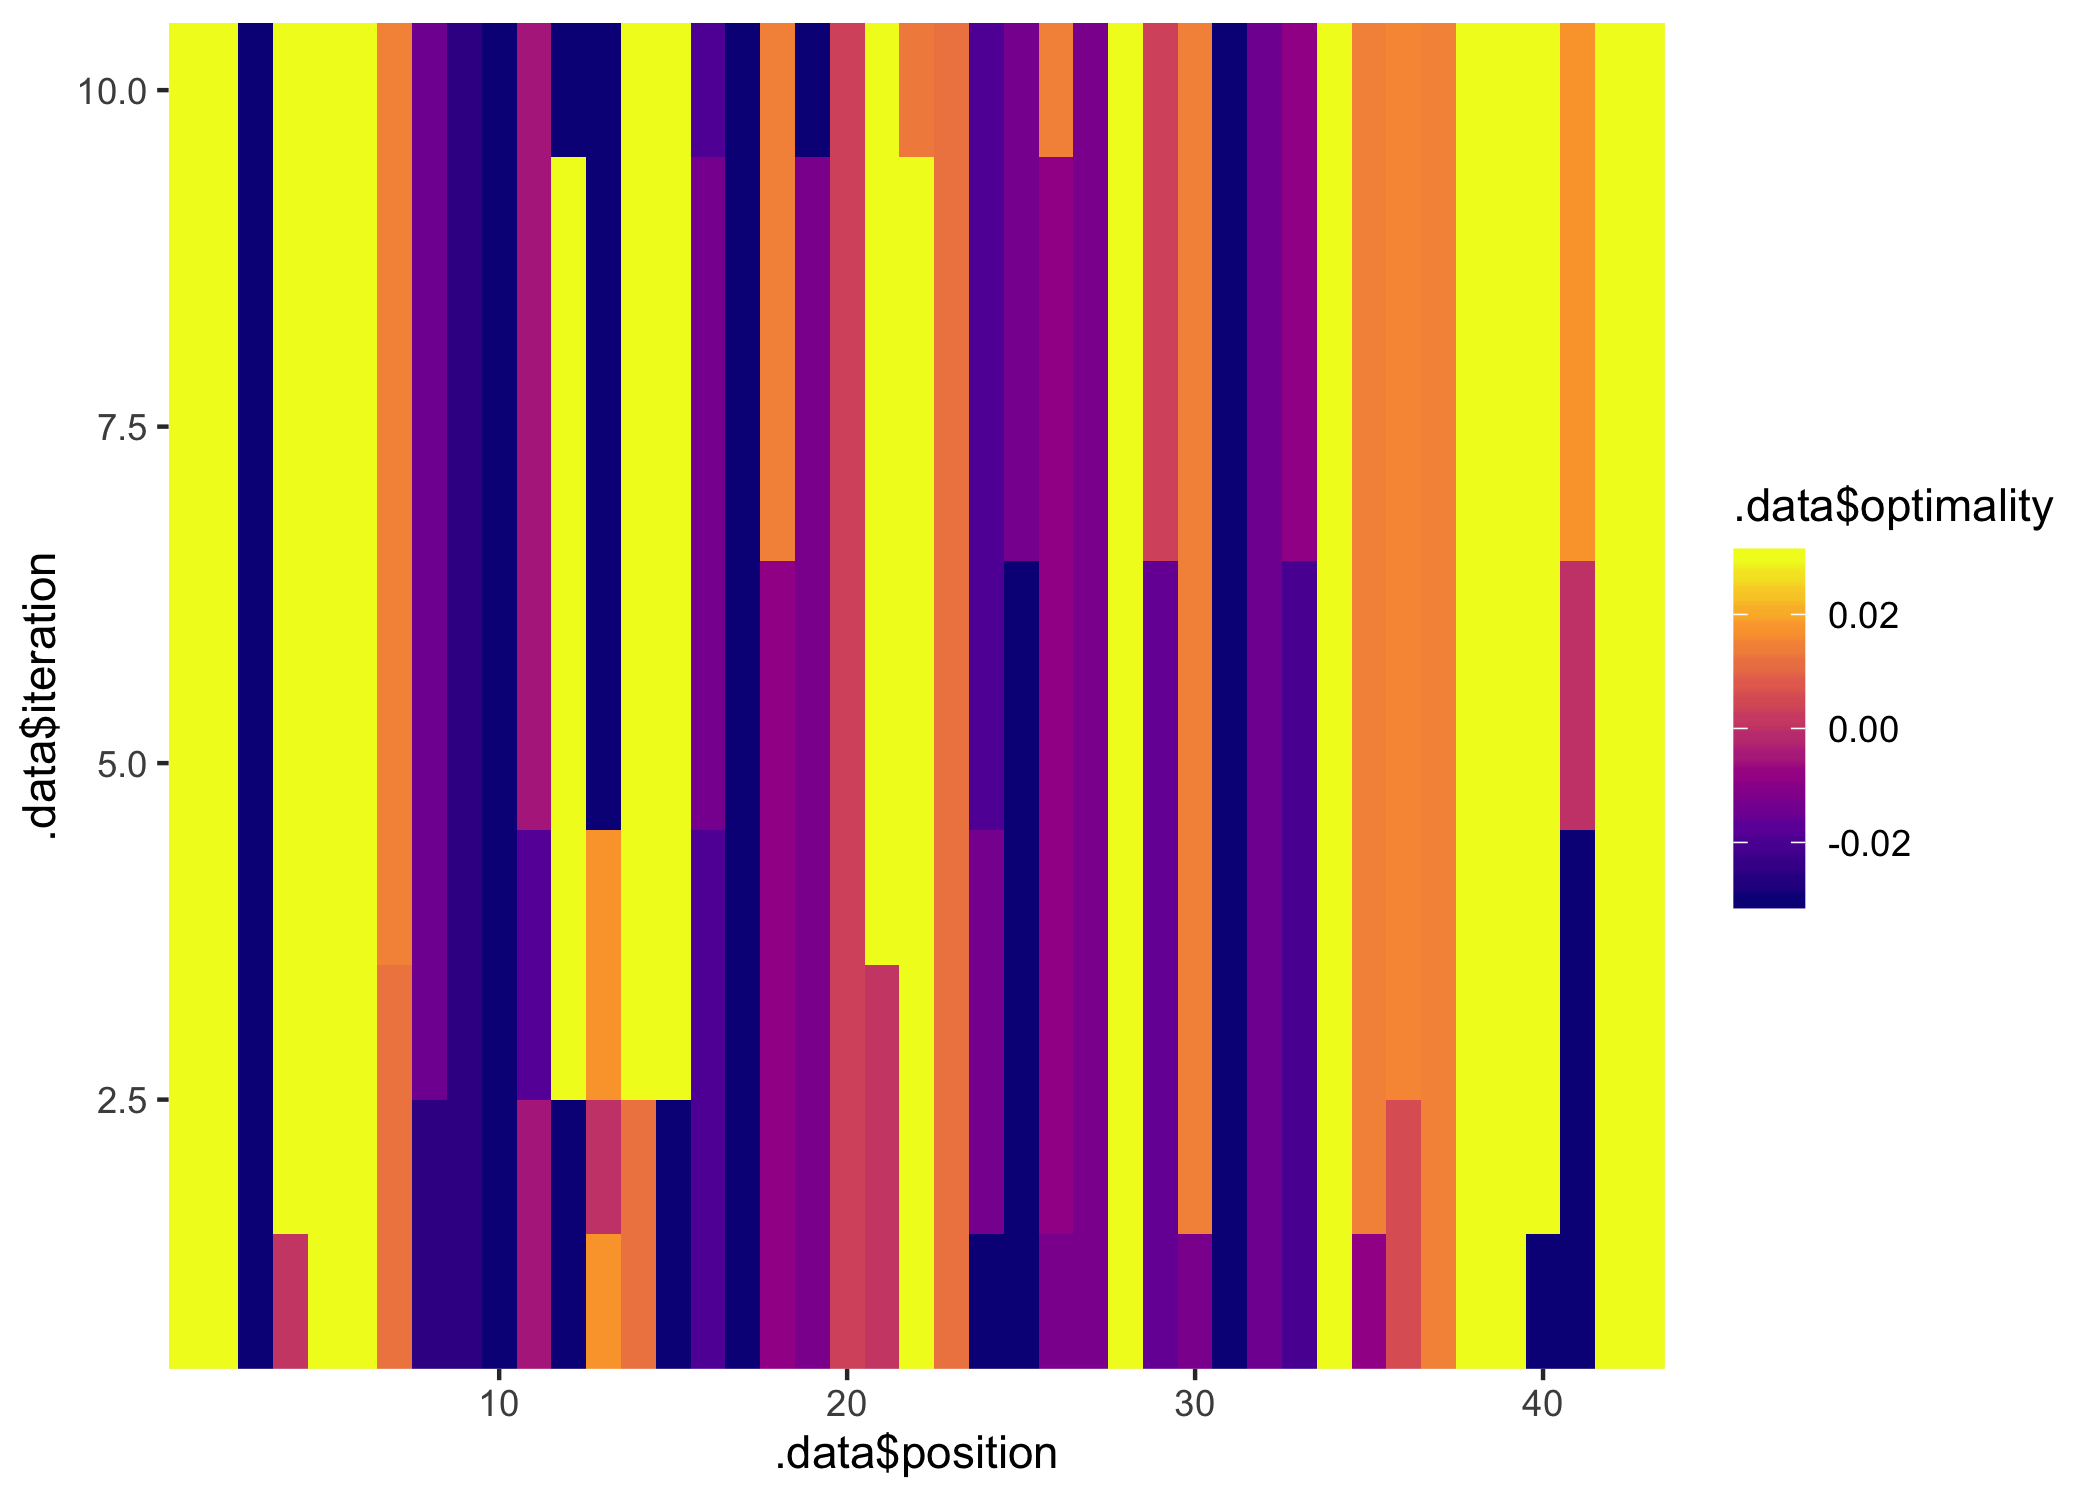
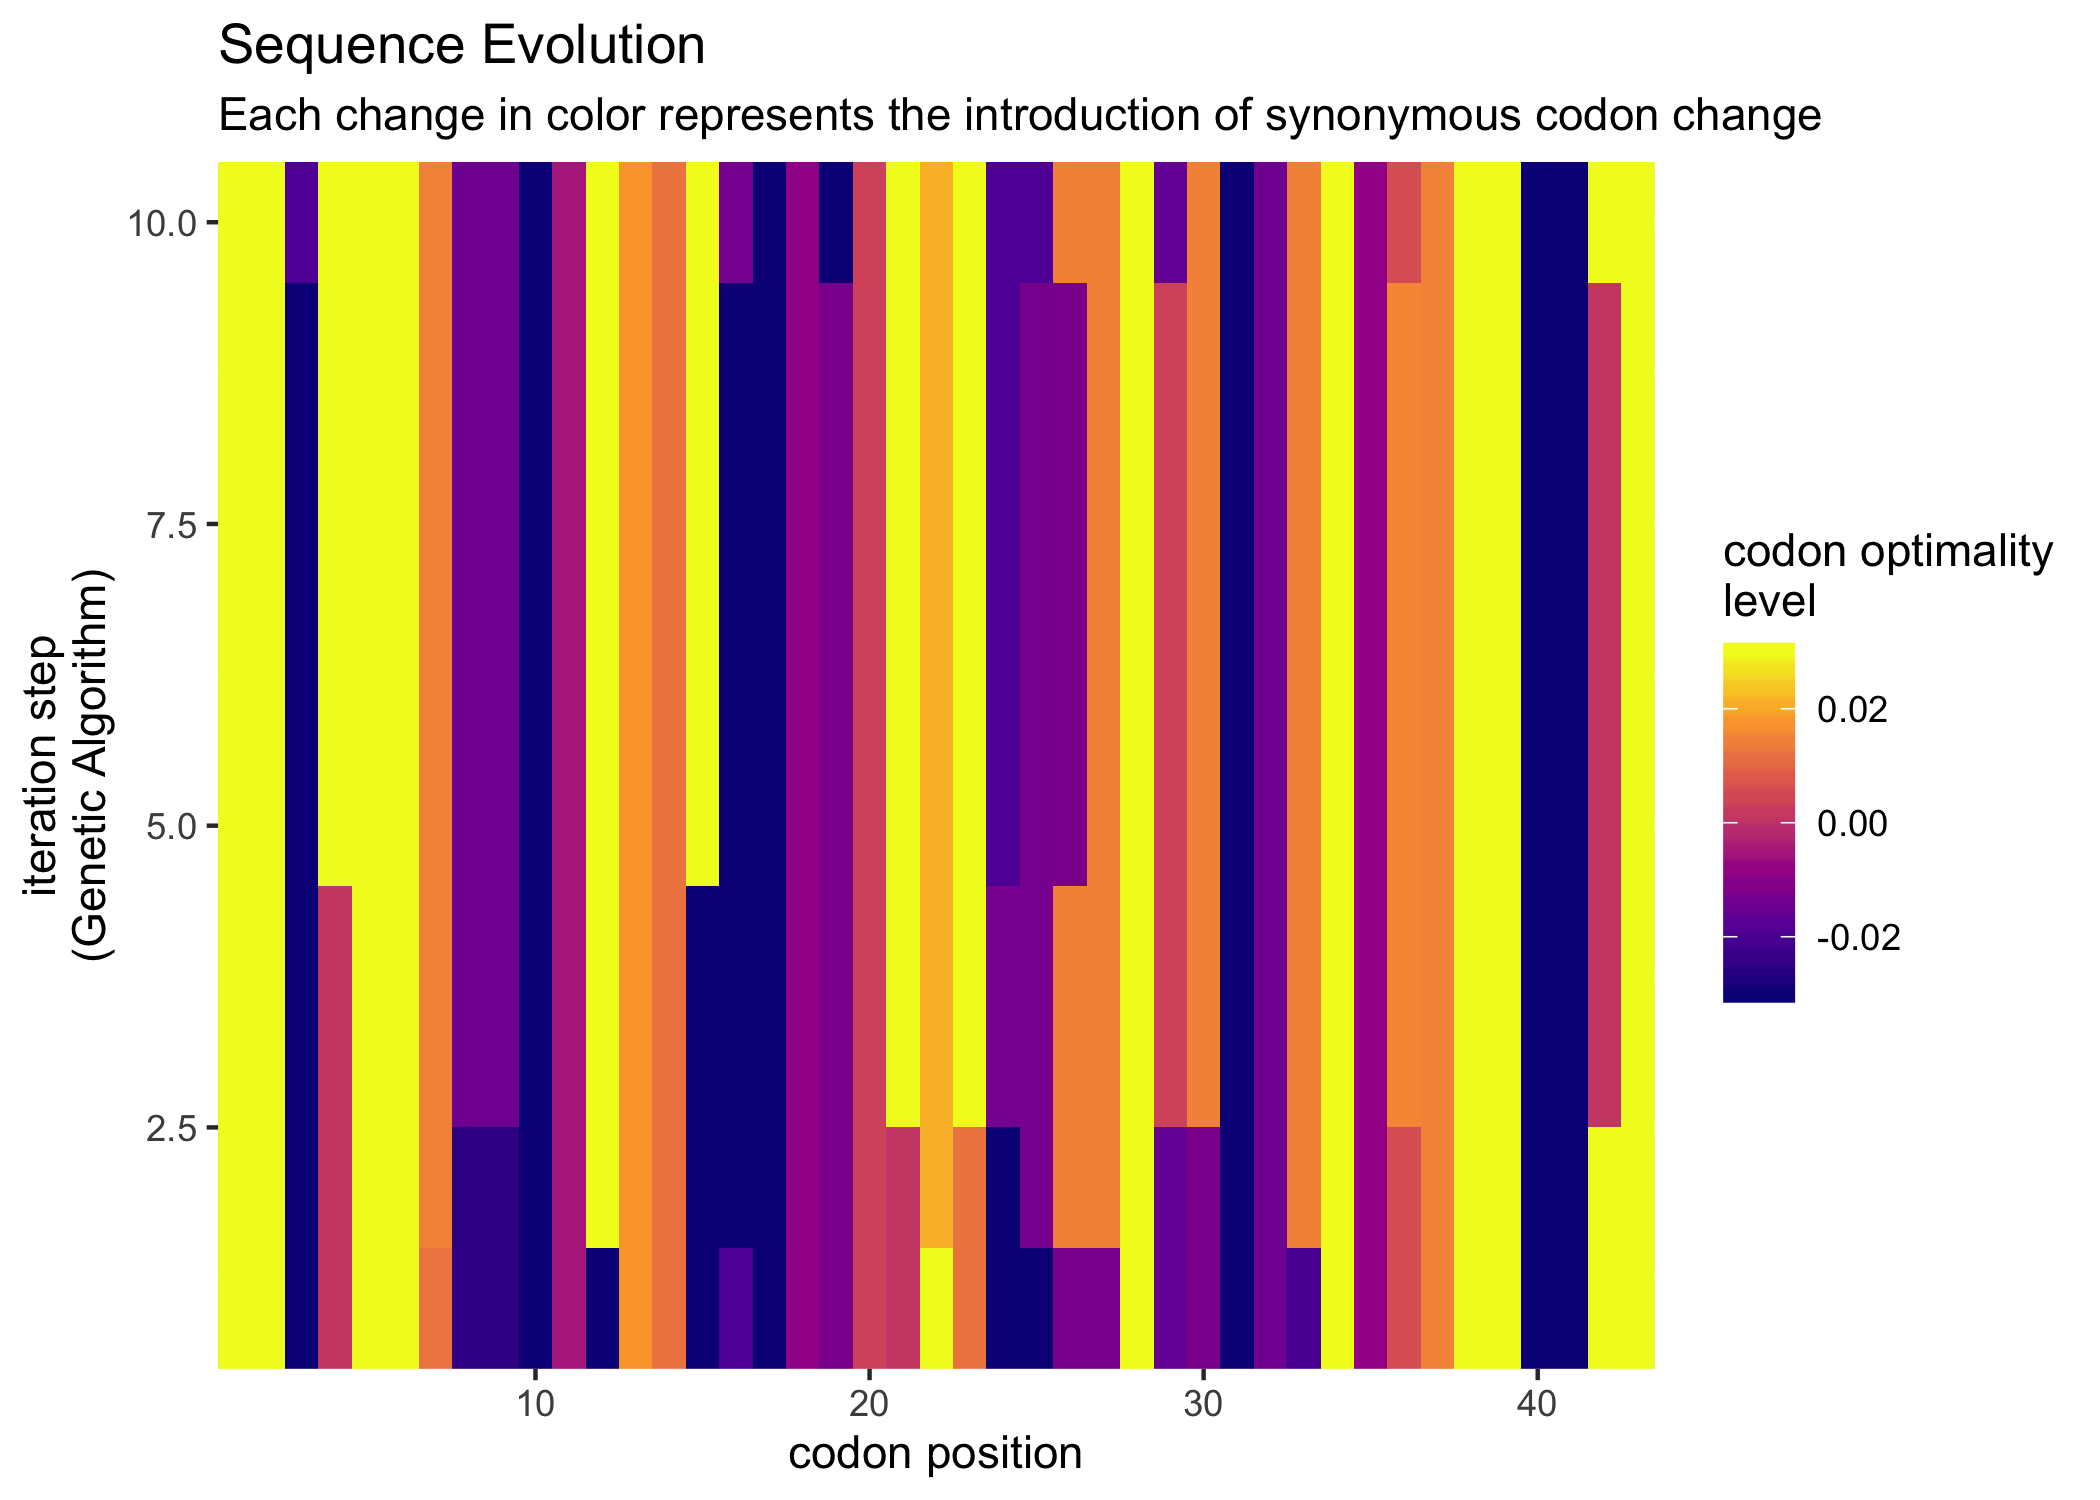
added visualizatio function

diff --git a/README.md b/README.md
@@ -55,7 +55,7 @@ visualize_evolution(result)
 <img src="man/figures/README-viz-1.png" width="100%" />
 
 ``` r
-visualize_evolution(result, draw_heatmap = F)
+plot_optimization(result)
 ```
 
 <img src="man/figures/README-viz2-1.png" width="100%" />
